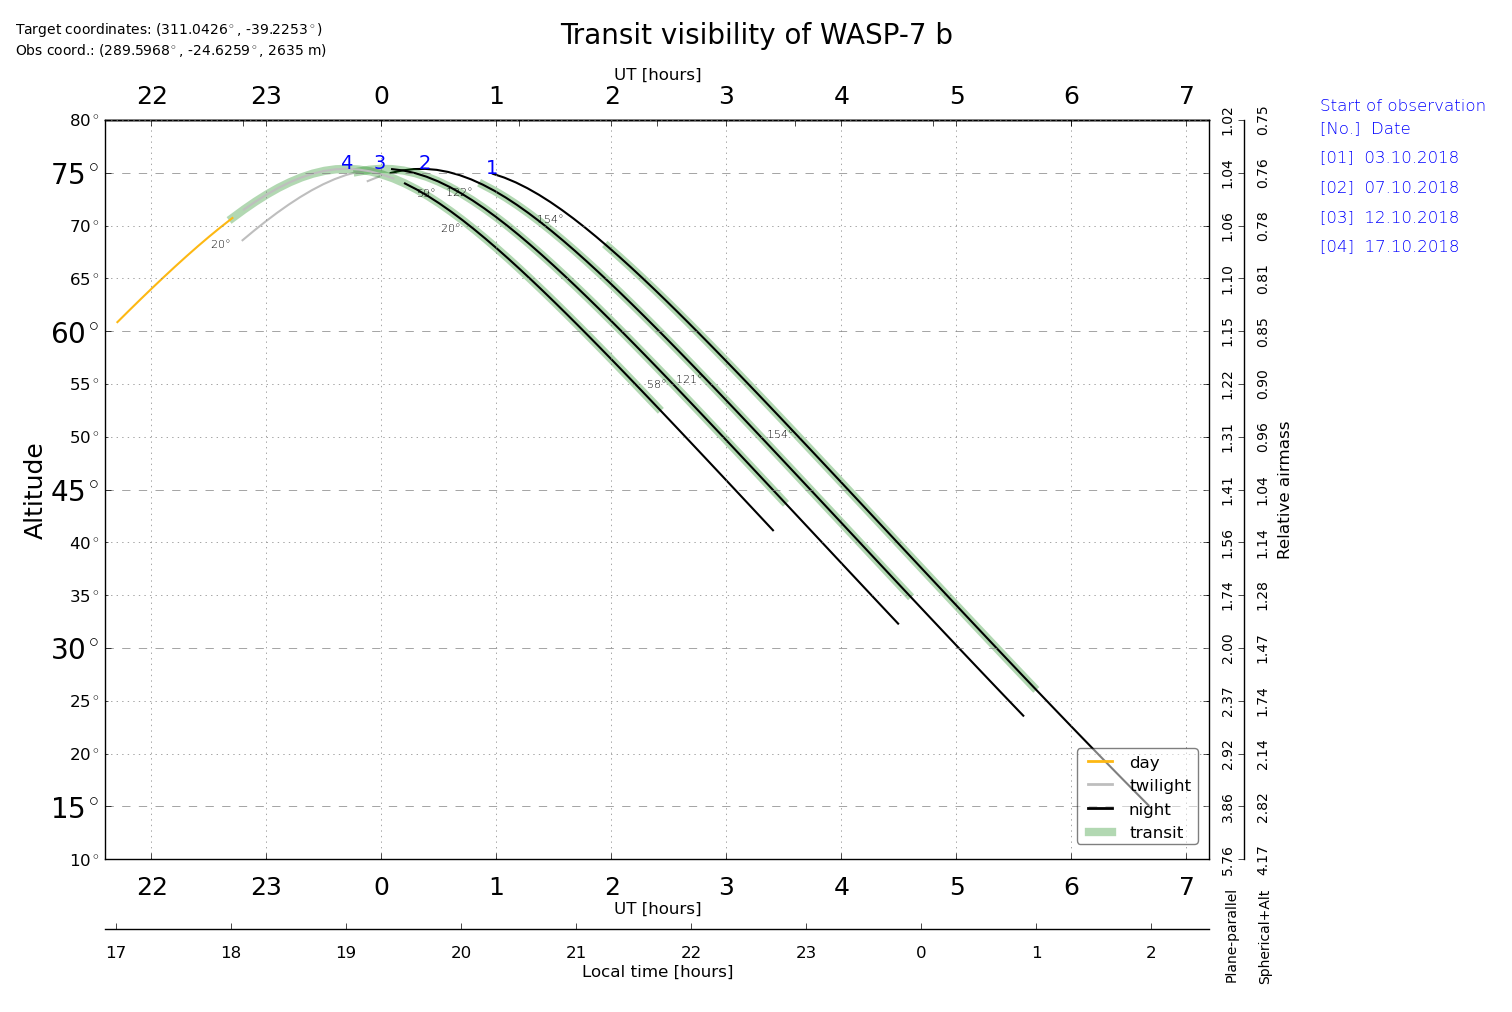
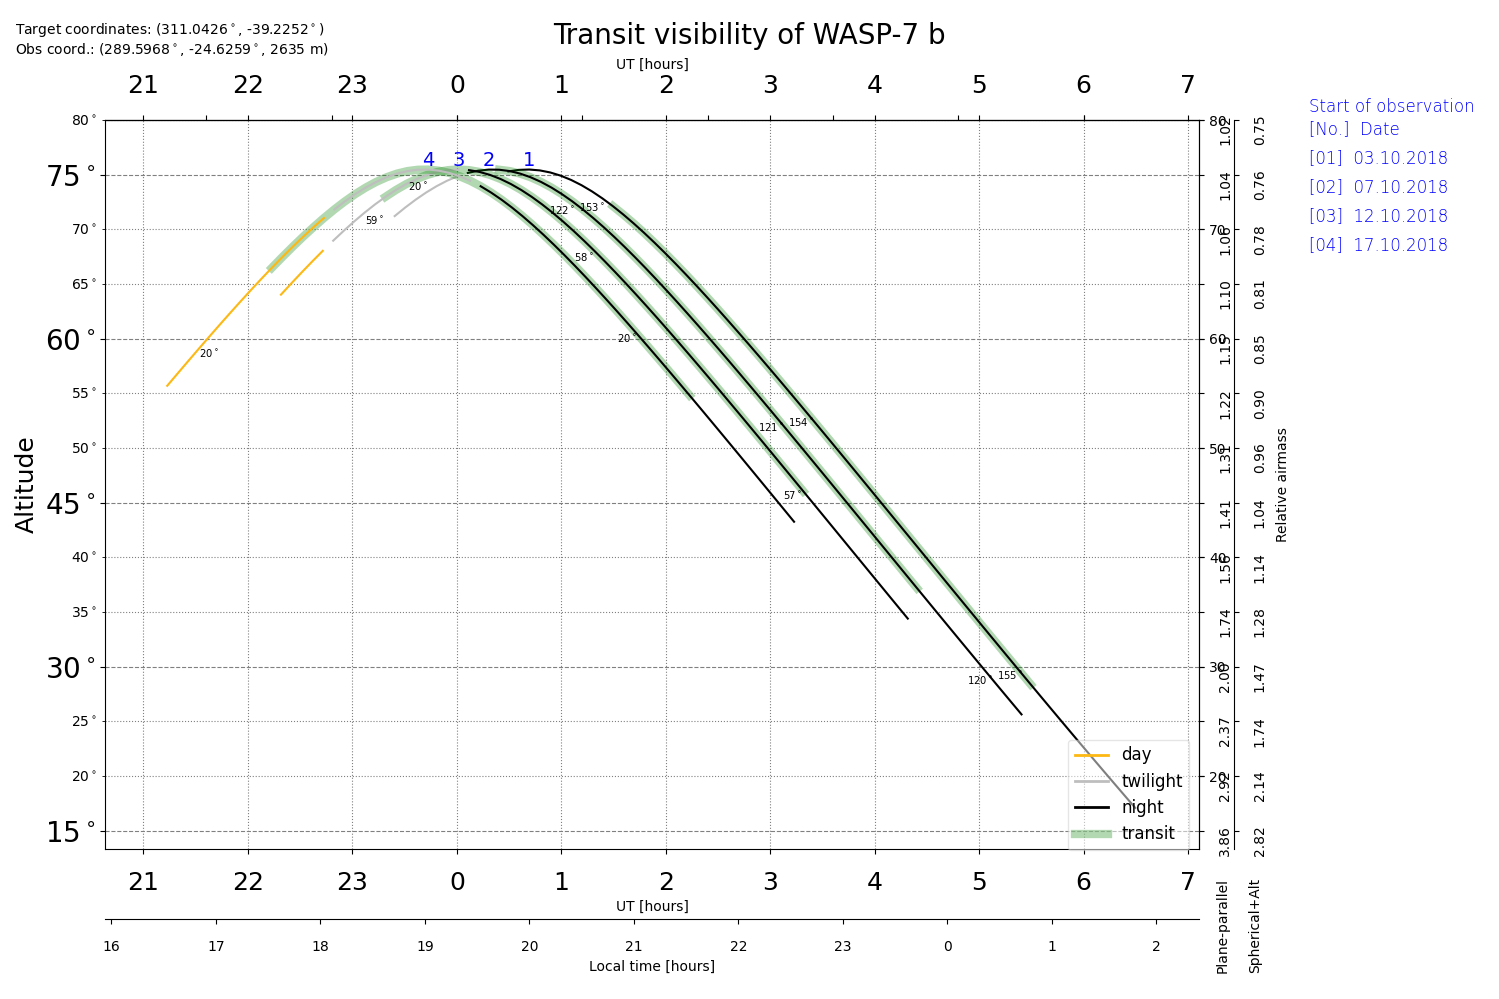
TransitVisibility, example/test -> explicit data for WASP-7 b, some docu

diff --git a/PyAstronomy/pyasl/asl/inTransit.py b/PyAstronomy/pyasl/asl/inTransit.py
@@ -461,6 +461,7 @@ def transitTimes(
     =======  =================================
     Key      Value
     -------  ---------------------------------
+    plName   Planet name
     ra       Right ascension of object [deg]
     dec      Declination of object [deg]
     T0       Time reference point (HJD)
@@ -763,7 +764,7 @@ def transitTimes(
         else:
             dur = planetData["Tdur"]
 
-        print("Transit duration: ", dur * 24.0 * 60.0, " minutes")
+        print(f"Transit duration: {dur * 24.0 * 60.0:.2f} minutes")
         print(
             "Off-transit time before and after transit: ",
             obsOffset * 24.0 * 60.0,
@@ -1389,6 +1390,7 @@ def transitVisibilityPlot(
 
     # Make ax2 responsible for "top" axis and "right" axis
     ax2 = ax.twin()
+    ax2.set_xlim(axrange)
     # Set upper x ticks
     ax2.set_xticks(jdhours)
     ax2.set_xticklabels(utchours, fontsize=18)
@@ -1448,6 +1450,7 @@ def transitVisibilityPlot(
     )
 
     ax3 = ax.twin()
+    ax3.set_xlim(axrange)
     ax3.set_frame_on(True)
     ax3.patch.set_visible(False)
     ax3.xaxis.set_ticks_position("bottom")
@@ -1569,6 +1572,7 @@ def transitVisibilityPlot(
         va="center",
         fontsize=10,
     )
+    
 
     if print2file == True:
         outfile = "transVis-" + \
@@ -1577,4 +1581,5 @@ def transitVisibilityPlot(
     elif isinstance(print2file, six.string_types):
         plt.savefig(print2file, format="png", dpi=300)
     else:
+        fig.canvas.draw()
         plt.show()

diff --git a/PyAstronomy/pyasl/asl/sanityTest.py b/PyAstronomy/pyasl/asl/sanityTest.py
@@ -2552,18 +2552,32 @@ class TestSanityOfTransitTimes(unittest.TestCase):
         """
         from PyAstronomy import pyasl
         import datetime as dt
-
+        
+        # Data suitable for WASP-7 b
+        wasp_7_data = {
+            "plName" : "WASP-7 b",
+            "ra" : 302.85206,
+            "dec" : -20.35184,
+            "T0" : 2455446.63493,
+            "orbPer" : 4.9546416,
+            "orbInc" : 87.03,
+            "SMA" : 0.0617,
+            "RpJ" : 1.330,
+            "RsSun" : 1.44,
+            }
+        
+        
         # Convert July 14th, 2018, 10pm to a Julian date
         d = dt.datetime(2018, 7, 14, 22)
         jd = pyasl.jdcnv(d)
-
+        
         # Calculate transit data for transits within 100 days starting
         # form July 14th, 2018.
-        dat = pyasl.transitTimes(jd, jd+100., "WASP-7 b",
-                                 observatory="esoparanal", obsOffset=1./24.,
-                                 minAltitude=10.0)
+        dat = pyasl.transitTimes(jd, jd+100., wasp_7_data,
+                                    observatory="esoparanal", obsOffset=1./24.,
+                                    minAltitude=10.0)
         # Plot the result
-        #pyasl.transitVisibilityPlot(dat, markTransit=True)
+        # pyasl.transitVisibilityPlot(dat, markTransit=True)
 
     def testsanity_ETD_compare(self):
         """

diff --git a/PyAstronomy/doc/pyaslDoc/aslDoc/transitVisibility.rst b/PyAstronomy/doc/pyaslDoc/aslDoc/transitVisibility.rst
@@ -12,31 +12,46 @@ information to evaluate whether a transit is observable at a particular point.
 Using :py:func:`transitVisibilityPlot`, the data can be plotted to obtain a
 visual impression of the visibility.
 
-Example of usage
-------------------
+Example: Transit observation opportunities for WASP-7 b at Paranal
+-------------------------------------------------------------------
 
-The following example demonstrates the use of the functions. Both
-code and output is shown.
+Get transit key parameters such as mid-transit time, start and end of observation, altitudes, twilight status,
+and moon distance and phase for transits of WASP-7 b for a 100 day range starting in July 2018.
+Plot the target altitudes for the windows of opportunity as a function of UT/local time.
 
 Code
 ~~~~~~
 
 ::
+        
+    from PyAstronomy import pyasl
+    import datetime as dt
     
-	from PyAstronomy import pyasl
-	import datetime as dt
-	
-	# Convert July 14th, 2018, 10pm to a Julian date
-	d = dt.datetime(2018, 7, 14, 22)
-	jd = pyasl.jdcnv(d)
-	
-	# Calculate transit data for transits within 100 days starting
-	# form July 14th, 2018.
-	dat = pyasl.transitTimes(jd, jd+100., "WASP-7 b",
-	                         observatory="esoparanal", obsOffset=1./24.,
-	                         minAltitude=10.0)
-	# Plot the result
-	pyasl.transitVisibilityPlot(dat, markTransit=True)
+    # Data suitable for WASP-7 b
+    wasp_7_data = {
+        "plName" : "WASP-7 b",
+        "ra" : 302.85206,
+        "dec" : -20.35184,
+        "T0" : 2455446.63493,
+        "orbPer" : 4.9546416,
+        "orbInc" : 87.03,
+        "SMA" : 0.0617,
+        "RpJ" : 1.330,
+        "RsSun" : 1.44,
+        }
+    
+    
+    # Convert July 14th, 2018, 10pm to a Julian date
+    d = dt.datetime(2018, 7, 14, 22)
+    jd = pyasl.jdcnv(d)
+    
+    # Calculate transit data for transits within 100 days starting
+    # form July 14th, 2018.
+    dat = pyasl.transitTimes(jd, jd+100., wasp_7_data,
+                                observatory="esoparanal", obsOffset=1./24.,
+                                minAltitude=10.0)
+    # Plot the result
+    pyasl.transitVisibilityPlot(dat, markTransit=True)
 
 
 Text output
@@ -44,18 +59,20 @@ Text output
 
 ::
 
-  Specified time span
-  Start date (DDDD-MM-YY and fractional hours): 2018-07-14 21.962
-  End date (DDDD-MM-YY and fractional hours): 2018-10-22 22.129
-  
-  Transit duration:  226.512  minutes
-  Off-transit time before and after transit:  60.0  minutes
-  
-  No. Tmid [HJD]      Obs. start [UT] [ALT, DIR(AZI)]     Transit mid [UT] [ALT, DIR(AZI)]     Obs. end [UT] [ALT, DIR(AZI)]   twilight (SUN ALT)                   moon distance     moon phase
-    1 2458394.66052    3.10.  0:57    [ 75°,S(193°)]       3.10.  3:51     [ 47°,W(238°)]       3.10.  6:44  [ 14°,W(233°)]                night (-30°,-59°,-46°)   (153°,154°,155°)   42%
-    2 2458399.61518    7.10. 23:52    [ 74°,S(159°)]       8.10.  2:45     [ 56°,W(235°)]       8.10.  5:39  [ 22°,W(235°)]     astron. twilight (-15°,-50°,-55°)   (122°,121°,119°)    1%
-    3 2458404.56984   12.10. 22:47    [ 68°,S(137°)]      13.10.  1:40     [ 64°,W(229°)]      13.10.  4:33  [ 31°,W(237°)]       civil twilight (  0°,-37°,-57°)   ( 60°, 58°, 57°)   18%
-    4 2458409.52449   17.10. 21:42    [ 60°,E(127°)]      18.10.  0:35     [ 71°,S(214°)]      18.10.  3:28  [ 40°,W(238°)]                  day ( 14°,-23°,-52°)   ( 20°, 20°, 20°)   63%
+    Specified time span
+    Start date (DDDD-MM-YY and fractional hours): 2018-07-14 22.130
+    End date (DDDD-MM-YY and fractional hours): 2018-10-22 22.008
+    
+    Estimating transit duration using orbital inclination, semi-major axis,
+      planetary radius, and stellar radius
+    Transit duration: 243.27 minutes
+    Off-transit time before and after transit:  60.0  minutes
+    
+    No. Tmid [HJD]      Obs. start [UT] [ALT, DIR(AZI)]     Transit mid [UT] [ALT, DIR(AZI)]     Obs. end [UT] [ALT, DIR(AZI)]   twilight (SUN ALT)                   moon distance     moon phase
+      1 2458394.64668    3.10.  0:29    [ 75°,S(171°)]       3.10.  3:31     [ 51°,W(237°)]       3.10.  6:32  [ 16°,W(233°)]                night (-24°,-57°,-48°)   (153°,154°,155°)   43%
+      2 2458399.60132    7.10. 23:24    [ 71°,S(144°)]       8.10.  2:25     [ 59°,W(233°)]       8.10.  5:27  [ 25°,W(236°)]    nautical twilight ( -9°,-47°,-56°)   (123°,121°,119°)    2%
+      3 2458404.55597   12.10. 22:18    [ 64°,E(130°)]      13.10.  1:20     [ 67°,S(224°)]      13.10.  4:22  [ 33°,W(238°)]                  day (  5°,-33°,-57°)   ( 60°, 58°, 57°)   18%
+      4 2458409.51061   17.10. 21:13    [ 55°,E(124°)]      18.10.  0:15     [ 73°,S(204°)]      18.10.  3:16  [ 42°,W(238°)]                  day ( 20°,-19°,-51°)   ( 20°, 20°, 20°)   63%
 
 
 Graphical output
